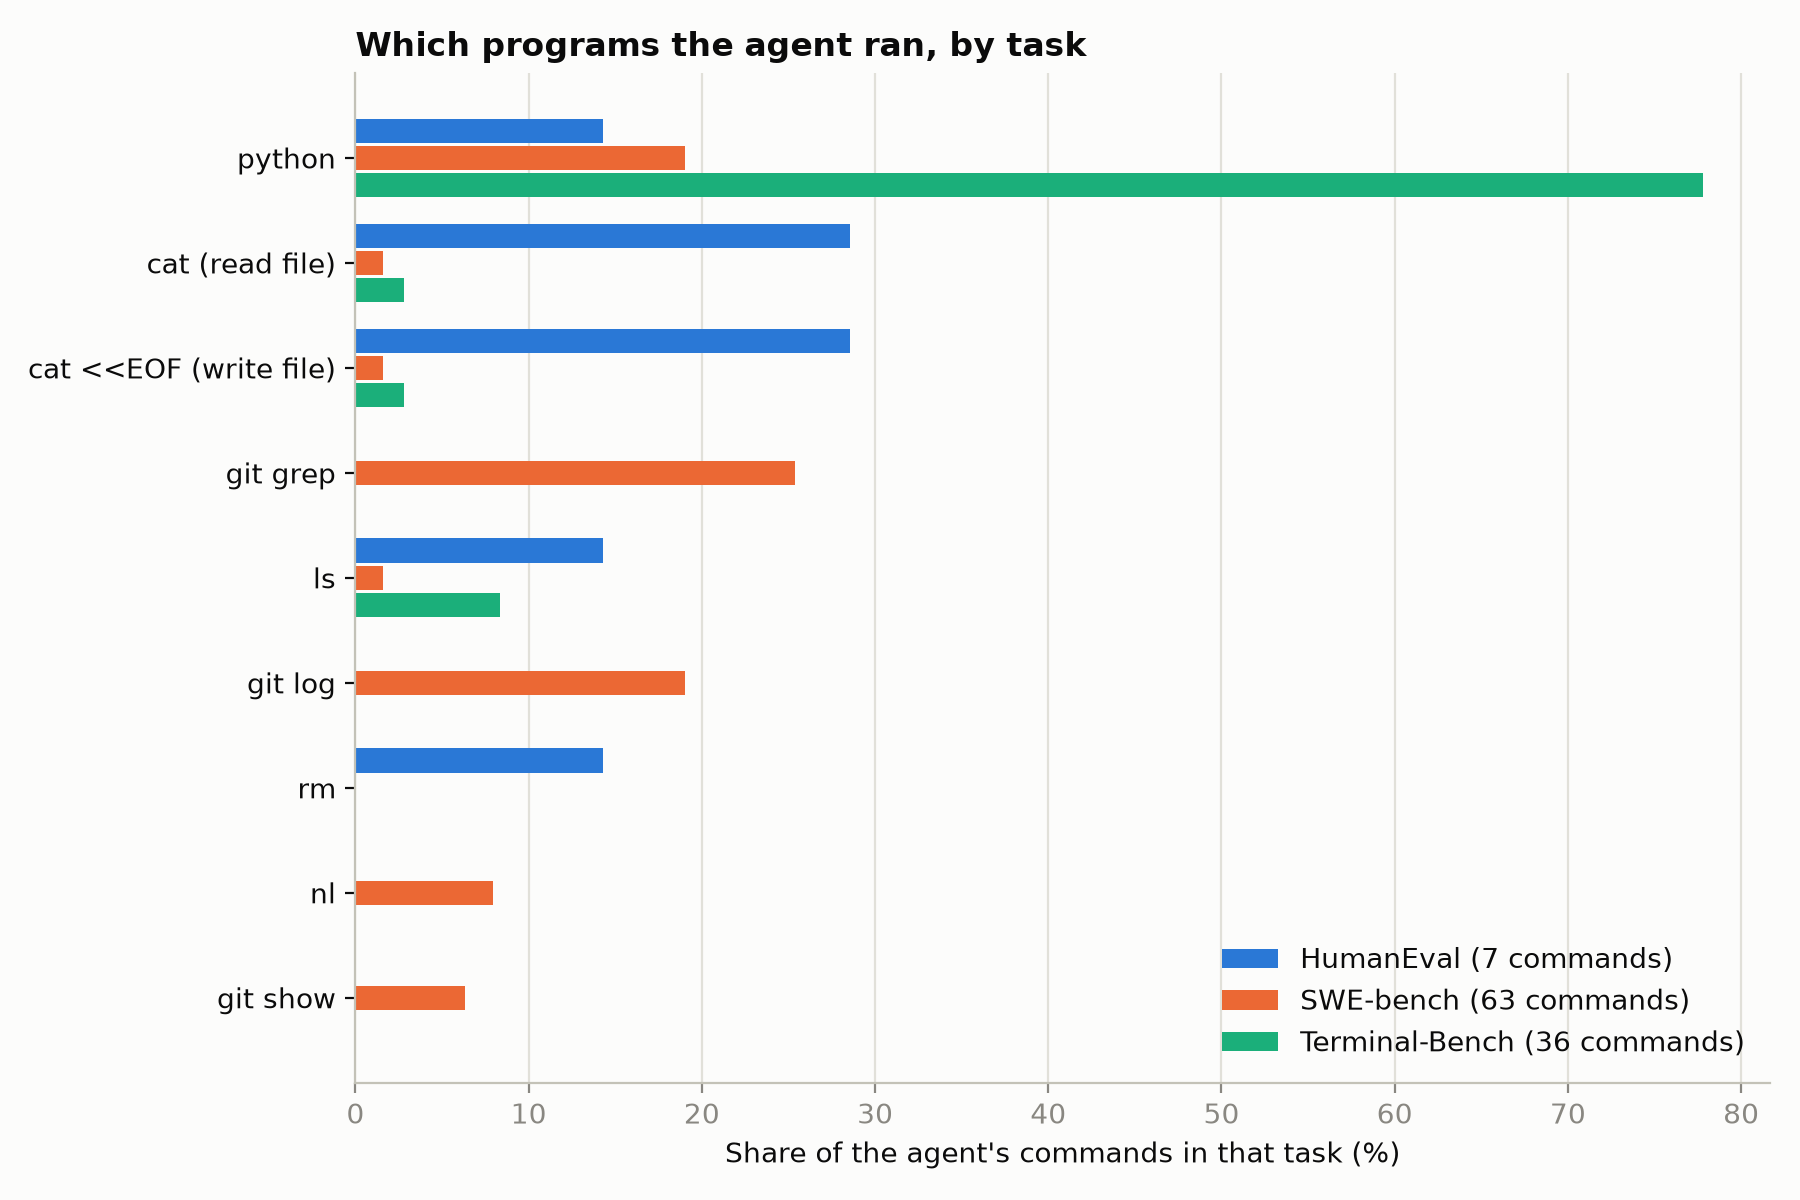
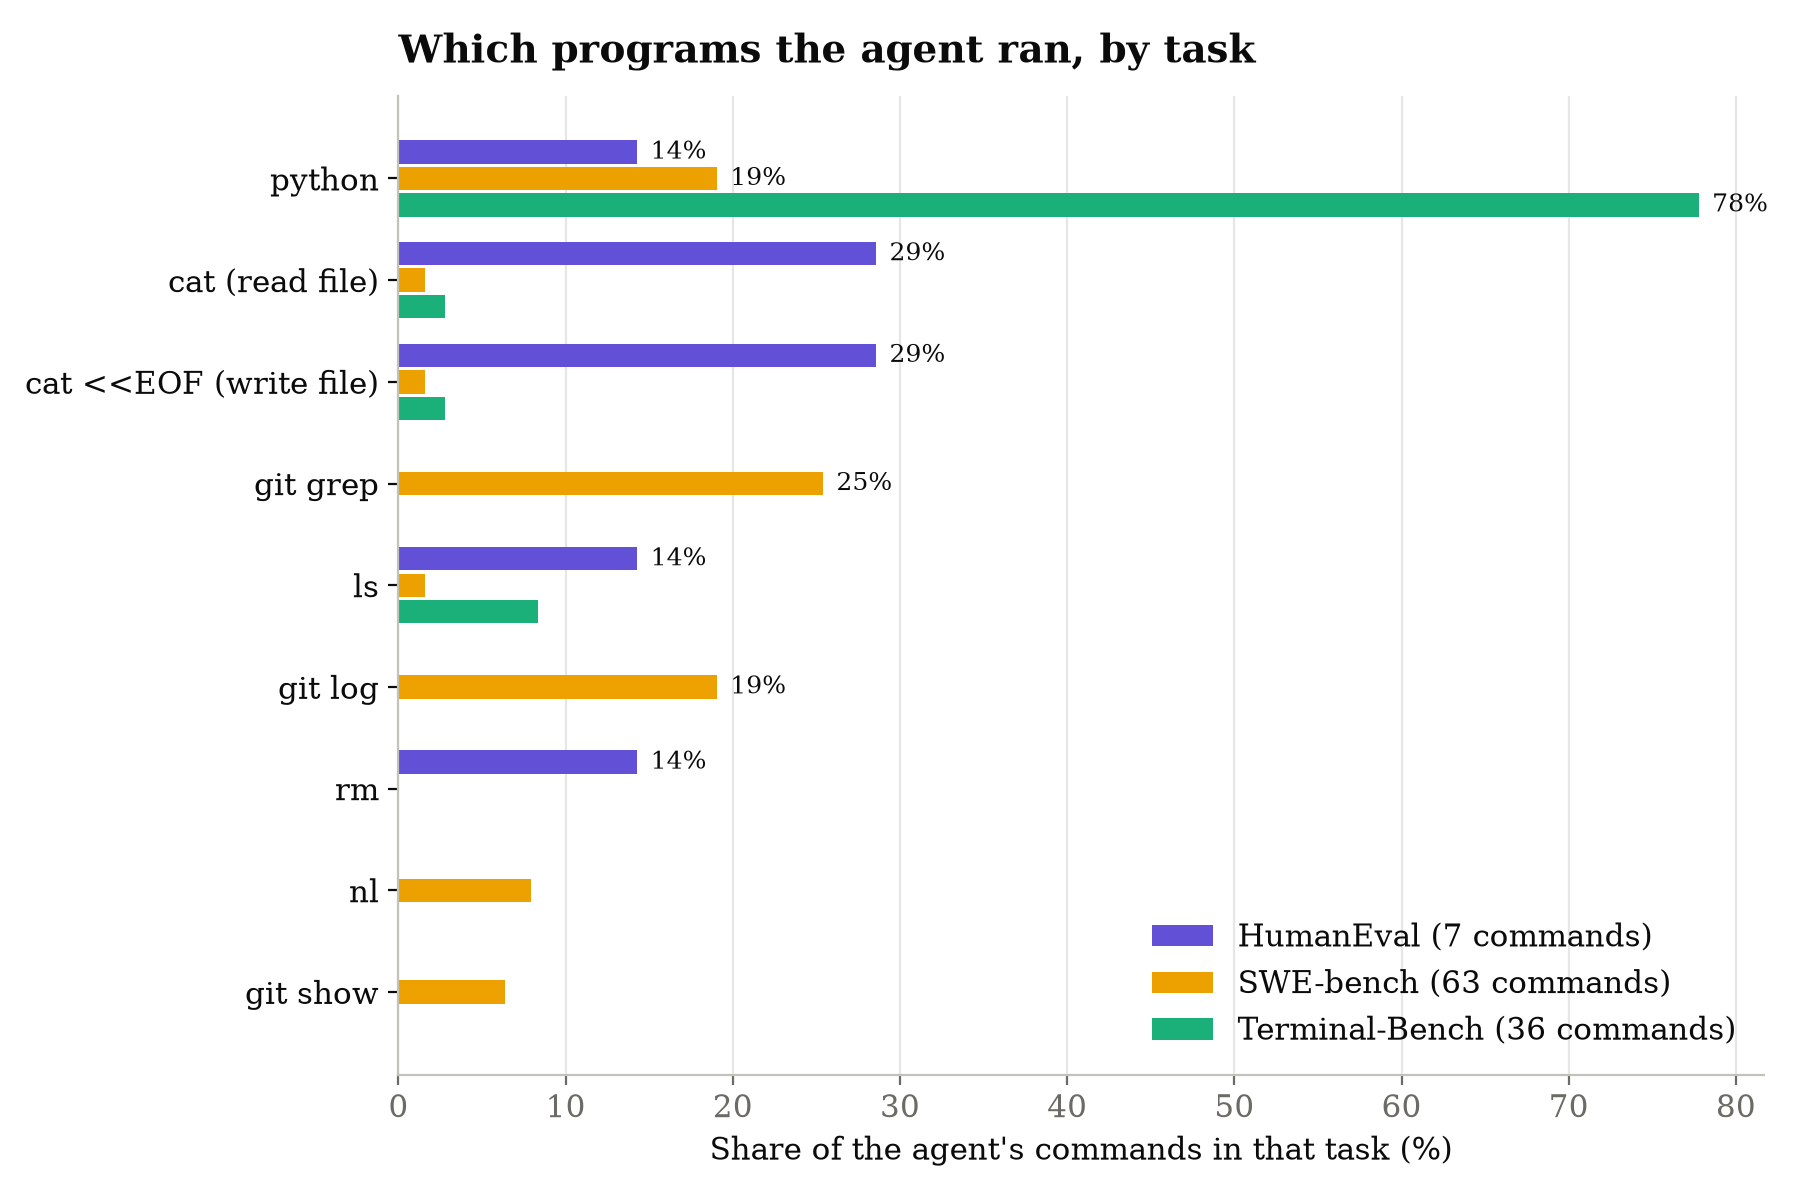
new plots

diff --git a/writeup/3_run_example_tasks/make_figures.py b/writeup/3_run_example_tasks/make_figures.py
@@ -1,3 +1,242 @@
+# """Problem 7: three figures from the saved HumanEval, SWE-bench and Terminal-Bench trajectories.
+
+# Run from the repository root:
+#     uv run --with matplotlib python writeup/3_run_example_tasks/make_figures.py
+# """
+# import glob
+# import json
+# import os
+# import re
+# from collections import Counter
+
+# import matplotlib
+# matplotlib.use("Agg")
+# import matplotlib.pyplot as plt
+# from matplotlib.patches import Patch
+
+# OUT = "writeup/3_run_example_tasks"
+# ART = os.path.join(OUT, "artifacts")
+# RUNS = [
+#     ("HumanEval", "humaneval-agent/humaneval-0__*"),
+#     ("SWE-bench", "swebench-django-11099/django__django-11099__*"),
+#     ("Terminal-Bench", "terminal-bench-model-extraction/model-extraction-relu-logits__*"),
+# ]
+# TASK_COLOR = {"HumanEval": "#2a78d6", "SWE-bench": "#eb6834", "Terminal-Bench": "#1baf7a"}
+# INK, MUTED, GRID, SURFACE = "#0b0b0b", "#898781", "#e1e0d9", "#fcfcfb"
+# SUBMIT = "COMPLETE_TASK_AND_SUBMIT_FINAL_OUTPUT"
+
+# plt.rcParams.update({
+#     "figure.facecolor": SURFACE, "axes.facecolor": SURFACE, "savefig.facecolor": SURFACE,
+#     "axes.edgecolor": "#c3c2b7", "axes.labelcolor": INK, "text.color": INK,
+#     "xtick.color": MUTED, "ytick.color": INK, "font.size": 10,
+#     "axes.spines.top": False, "axes.spines.right": False,
+# })
+
+
+# def load(pattern):
+#     """Return the agent's work steps as dicts: step id, command, return code."""
+#     path = glob.glob(os.path.join(ART, pattern, "agent", "trajectory.json"))[0]
+#     steps = []
+#     for s in json.load(open(path))["steps"]:
+#         if s.get("source") != "agent" or not s.get("tool_calls"):
+#             continue
+#         cmd = s["tool_calls"][0]["arguments"].get("command", "")
+#         if SUBMIT in cmd:
+#             continue  # the submit command is not work on the task
+#         content = (s.get("observation", {}).get("results") or [{}])[0].get("content", "")
+#         m = re.search(r'"returncode":\s*(-?\d+)', content)
+#         steps.append({"id": s["step_id"], "cmd": cmd, "rc": int(m.group(1)) if m else 0})
+#     return steps
+
+
+# def program(cmd):
+#     """Name of the program a command starts with (after any 'cd X &&' or VAR=value)."""
+#     first = cmd.strip().splitlines()[0] if cmd.strip() else ""
+#     m = re.match(r"\s*cd\s+\S+\s*&&\s*(.*)", first)
+#     if m:
+#         first = m.group(1)
+#     toks = first.split()
+#     while toks and re.match(r"^[A-Za-z_]\w*=", toks[0]):
+#         toks = toks[1:]
+#     if not toks:
+#         return "other"
+#     name = os.path.basename(toks[0])
+#     if name.startswith("python"):
+#         return "python"
+#     if name == "cat" and "<<" in first:
+#         return "cat <<EOF (write file)"
+#     if name == "cat":
+#         return "cat (read file)"
+#     if name == "git" and len(toks) > 1:
+#         return "git " + toks[1]
+#     return name
+
+
+# WRITE_PATTERNS = [
+#     r"(?:^|[^0-9&>])>{1,2}\s*([~./]?[A-Za-z_/][\w./-]*)",  # shell redirect to a file
+#     r"\bsed\s+-i\S*\s+.*?\s([\w./-]+\.\w+)\s*$",           # sed -i ... file
+#     r"open\(\s*['\"]([^'\"]+)['\"]\s*,\s*['\"][wa]",       # Python open(path, 'w')
+#     r"\btee\s+(?:-a\s+)?([\w./-]+)",                       # tee file
+# ]
+
+
+# FILE_EXT = r"\.(?:py|txt|npy|json|md|sh|cfg|toml|ya?ml|csv|log|html|rst|js|c|h)$"
+
+
+# def writes_solution_file(cmd):
+#     """True if the command writes a file outside /tmp and /dev, i.e. edits the deliverable."""
+#     for pat in WRITE_PATTERNS:
+#         for target in re.findall(pat, cmd, flags=re.MULTILINE):
+#             looks_like_file = target.startswith(("/", "./", "~/")) or re.search(FILE_EXT, target)
+#             if looks_like_file and not target.startswith(("/tmp", "/dev")):
+#                 return True
+#     return False
+
+
+# data = {name: load(pattern) for name, pattern in RUNS}
+# names = [n for n, _ in RUNS]
+
+# # ---------------------------------------------------------------- figure 1
+# counts = {n: Counter(program(s["cmd"]) for s in data[n]) for n in names}
+# share = {n: {p: 100 * c / len(data[n]) for p, c in counts[n].items()} for n in names}
+# total = Counter()
+# for n in names:
+#     for p, v in share[n].items():
+#         total[p] += v
+# top = [p for p, _ in total.most_common(9)]
+
+# fig, ax = plt.subplots(figsize=(9, 6))
+# h = 0.26
+# for i, n in enumerate(names):
+#     ys = [j + (i - 1) * h for j in range(len(top))]
+#     ax.barh(ys, [share[n].get(p, 0) for p in top], height=h - 0.03,
+#             color=TASK_COLOR[n], label=f"{n} ({len(data[n])} commands)")
+# ax.set_yticks(range(len(top)))
+# ax.set_yticklabels(top)
+# ax.invert_yaxis()
+# ax.set_xlabel("Share of the agent's commands in that task (%)")
+# ax.set_title("Which programs the agent ran, by task", loc="left", fontweight="bold")
+# ax.xaxis.grid(True, color=GRID, linewidth=0.8)
+# ax.set_axisbelow(True)
+# ax.legend(frameon=False, loc="lower right")
+# fig.tight_layout()
+# fig.savefig(os.path.join(OUT, "bash-command-usage.png"), dpi=200)
+# plt.close(fig)
+
+# print("=== bash-command-usage: commands per program (count, % of task) ===")
+# for p in top:
+#     print(f"{p:26s}" + "".join(f"{n}: {counts[n].get(p, 0):2d} ({share[n].get(p, 0):4.1f}%)   " for n in names))
+
+# # ---------------------------------------------------------------- figure 2
+# EXPLORE, IMPLEMENT = "#c3c2b7", "#6250d6"
+# fig, ax = plt.subplots(figsize=(9, 3.4))
+# print("\n=== exploration-to-implementation: first command that writes a file outside /tmp ===")
+# for row, n in enumerate(names):
+#     steps = data[n]
+#     idx = next((i for i, s in enumerate(steps) if writes_solution_file(s["cmd"])), len(steps))
+#     pct = 100 * idx / len(steps)
+#     ax.barh(row, pct, color=EXPLORE, height=0.5)
+#     ax.barh(row, 100 - pct, left=pct, color=IMPLEMENT, height=0.5)
+#     ax.plot([pct, pct], [row - 0.33, row + 0.33], color=INK, linewidth=2)
+#     if idx < len(steps):
+#         label = f"command {idx + 1} of {len(steps)} (step {steps[idx]['id']})"
+#         print(f"{n}: command {idx + 1} of {len(steps)} = step {steps[idx]['id']} = {pct:.0f}% of the way through")
+#         print("   ", steps[idx]["cmd"].strip().splitlines()[0][:110])
+#     else:
+#         label = "no solution file written"
+#         print(f"{n}: no write found")
+#     ha, dx = ("right", -1.5) if pct > 60 else ("left", 1.5)
+#     ax.text(pct + dx, row - 0.36, label, ha=ha, va="bottom", fontsize=9)
+# ax.set_yticks(range(len(names)))
+# ax.set_yticklabels(names)
+# ax.invert_yaxis()
+# ax.set_xlim(0, 100)
+# ax.set_xlabel("Progress through the agent's commands (%)")
+# ax.set_title("When the agent first edited the solution", loc="left", fontweight="bold")
+# ax.legend(handles=[Patch(color=EXPLORE, label="Exploring (before the first write outside /tmp)"),
+#                    Patch(color=IMPLEMENT, label="Implementing (from the first write onward)")],
+#           frameon=False, loc="upper center", bbox_to_anchor=(0.5, -0.32), ncol=2)
+# fig.tight_layout()
+# fig.savefig(os.path.join(OUT, "exploration-to-implementation.png"), dpi=200)
+# plt.close(fig)
+
+# # ---------------------------------------------------------------- figure 3
+# # Each command is counted once, under the first activity below that it matches.
+# TEST_RUN = r"(?:^|[\s;&|])(?:pytest|\S*runtests\.py)\b|-m\s+(?:doctest|unittest|pytest)\b|python\S*\s+\S*test\S*\.py"
+# READ_PROGRAMS = {"cat", "ls", "nl", "sed", "head", "tail", "find", "grep", "wc", "less", "file", "tree"}
+# ENV_PROGRAMS = {"which", "pip", "pip3", "conda", "uname", "env", "whoami", "pwd", "uv"}
+
+
+# def writes_any_file(cmd):
+#     return writes_solution_file(cmd.replace("/tmp/", "/scratch/"))
+
+
+# def activity(cmd):
+#     prog = os.path.basename((program(cmd).split() or ["other"])[0])
+#     if writes_any_file(cmd):
+#         return "Edit or create files"
+#     if re.search(TEST_RUN, cmd, flags=re.MULTILINE):
+#         return "Run tests"
+#     if re.search(r"(?:^|[\s;&|/])python[\d.]*\s", cmd, flags=re.MULTILINE):
+#         return "Run own scripts and experiments"
+#     if re.search(r"(?:^|[\s;&|])git\s+(?:log|show|status|diff|branch|blame)\b", cmd, flags=re.MULTILINE):
+#         return "Inspect git history and state"
+#     if prog in READ_PROGRAMS or program(cmd) == "git grep":
+#         return "Inspect and search files"
+#     if prog in ENV_PROGRAMS:
+#         return "Check the environment"
+#     return "Other"
+
+
+# ACTIVITIES = [
+#     ("Inspect and search files", "#2a78d6"),
+#     ("Inspect git history and state", "#eb6834"),
+#     ("Check the environment", "#1baf7a"),
+#     ("Edit or create files", "#eda100"),
+#     ("Run tests", "#e87ba4"),
+#     ("Run own scripts and experiments", "#6250d6"),
+#     ("Other", "#c3c2b7"),
+# ]
+# SHORT = {"Inspect and search files": "files", "Inspect git history and state": "git",
+#          "Check the environment": "env", "Edit or create files": "edit", "Run tests": "tests",
+#          "Run own scripts and experiments": "scripts", "Other": "other"}
+# acts = {n: Counter(activity(s["cmd"]) for s in data[n]) for n in names}
+
+# fig, ax = plt.subplots(figsize=(10, 4.2))
+# for row, n in enumerate(names):
+#     left = 0.0
+#     for label, color in ACTIVITIES:
+#         c = acts[n].get(label, 0)
+#         pct = 100 * c / len(data[n])
+#         if c == 0:
+#             continue
+#         ax.barh(row, pct, left=left, height=0.55, color=color, edgecolor=SURFACE, linewidth=2)
+#         if pct >= 6:
+#             dark_text = color in ("#eda100", "#c3c2b7")
+#             ax.text(left + pct / 2, row, str(c), ha="center", va="center", fontsize=9,
+#                     color=INK if dark_text else "#ffffff", fontweight="bold")
+#         left += pct
+# ax.set_yticks(range(len(names)))
+# ax.set_yticklabels([f"{n}\n({len(data[n])} commands)" for n in names])
+# ax.invert_yaxis()
+# ax.set_xlim(0, 100)
+# ax.set_xlabel("Share of the agent's commands in that task (%); numbers in bars are command counts")
+# ax.set_title("How the agent spent its commands, by activity", loc="left", fontweight="bold")
+# ax.legend(handles=[Patch(color=c, label=l) for l, c in ACTIVITIES], frameon=False,
+#           loc="upper center", bbox_to_anchor=(0.5, -0.22), ncol=3)
+# fig.tight_layout()
+# fig.savefig(os.path.join(OUT, "effort-distribution.png"), dpi=200)
+# plt.close(fig)
+
+# print("\n=== effort-distribution: commands per activity (count, % of task) ===")
+# for label, _ in ACTIVITIES:
+#     print(f"{label:34s}" + "".join(f"{n}: {acts[n].get(label, 0):2d} ({100 * acts[n].get(label, 0) / len(data[n]):4.1f}%)   " for n in names))
+# for n in names:
+#     print(f"\n{n}: activity of each command, in order")
+#     print("   " + " | ".join(f"{s['id']}:{SHORT[activity(s['cmd'])]}" for s in data[n]))
+
+# print("\nSaved bash-command-usage.png, effort-distribution.png, exploration-to-implementation.png in", OUT)
+
 """Problem 7: three figures from the saved HumanEval, SWE-bench and Terminal-Bench trajectories.
 
 Run from the repository root:
@@ -21,14 +260,15 @@ RUNS = [
     ("SWE-bench", "swebench-django-11099/django__django-11099__*"),
     ("Terminal-Bench", "terminal-bench-model-extraction/model-extraction-relu-logits__*"),
 ]
-TASK_COLOR = {"HumanEval": "#2a78d6", "SWE-bench": "#eb6834", "Terminal-Bench": "#1baf7a"}
-INK, MUTED, GRID, SURFACE = "#0b0b0b", "#898781", "#e1e0d9", "#fcfcfb"
+TASK_COLOR = {"HumanEval": "#6250d6", "SWE-bench": "#eda100", "Terminal-Bench": "#1baf7a"}
+INK, MUTED, GRID, SURFACE = "#0b0b0b", "#6b6a65", "#e6e6e6", "#ffffff"
 SUBMIT = "COMPLETE_TASK_AND_SUBMIT_FINAL_OUTPUT"
 
 plt.rcParams.update({
     "figure.facecolor": SURFACE, "axes.facecolor": SURFACE, "savefig.facecolor": SURFACE,
     "axes.edgecolor": "#c3c2b7", "axes.labelcolor": INK, "text.color": INK,
-    "xtick.color": MUTED, "ytick.color": INK, "font.size": 10,
+    "xtick.color": MUTED, "ytick.color": INK, "font.size": 11, "font.family": "serif",
+    "axes.titlesize": 14, "axes.titlepad": 12,
     "axes.spines.top": False, "axes.spines.right": False,
 })
 
@@ -109,8 +349,11 @@ fig, ax = plt.subplots(figsize=(9, 6))
 h = 0.26
 for i, n in enumerate(names):
     ys = [j + (i - 1) * h for j in range(len(top))]
-    ax.barh(ys, [share[n].get(p, 0) for p in top], height=h - 0.03,
-            color=TASK_COLOR[n], label=f"{n} ({len(data[n])} commands)")
+    vals = [share[n].get(p, 0) for p in top]
+    ax.barh(ys, vals, height=h - 0.03, color=TASK_COLOR[n], label=f"{n} ({len(data[n])} commands)")
+    for y, v in zip(ys, vals):
+        if v >= 10:  # label only the larger bars so the chart stays readable
+            ax.text(v + 0.8, y, f"{v:.0f}%", va="center", fontsize=9, color=INK)
 ax.set_yticks(range(len(top)))
 ax.set_yticklabels(top)
 ax.invert_yaxis()
@@ -128,7 +371,7 @@ for p in top:
     print(f"{p:26s}" + "".join(f"{n}: {counts[n].get(p, 0):2d} ({share[n].get(p, 0):4.1f}%)   " for n in names))
 
 # ---------------------------------------------------------------- figure 2
-EXPLORE, IMPLEMENT = "#c3c2b7", "#6250d6"
+EXPLORE, IMPLEMENT = "#d9d8d2", "#2a78d6"
 fig, ax = plt.subplots(figsize=(9, 3.4))
 print("\n=== exploration-to-implementation: first command that writes a file outside /tmp ===")
 for row, n in enumerate(names):

diff --git a/writeup/3_run_example_tasks/responses.md b/writeup/3_run_example_tasks/responses.md
@@ -15,18 +15,18 @@
 
 3. Trace the verification process after the agent finishes: which file does Harbor execute, where do the private tests come from, and how is the final reward communicated back to Harbor?
 
-   Harbor executes `tests/test.sh`. The private tests come from the task's `tests/` folder, which Harbor copies into the container only after the agent finishes. The final reward is communicated by `test.sh` writing it to a reward file, which Harbor reads; in my run, `verifier/reward.txt` contained `1`.
+   Harbor executes `tests/test.sh`. The private tests come from the task's `tests/` folder, which Harbor copies into the container only after the agent finishes. The final reward is communicated by `test.sh` writing it to a reward file, which Harbor reads. In my run, `verifier/reward.txt` contained `1`.
 
 **Problem 4 (`run-example-agent`)**
 
 1. Summarize the agent's approach. Which files and commands did it use?
 
-   The agent read the starter file with `cat /app/humaneval_0.py` (step 3) and listed the folder with `ls -la /app` (step 4). It wrote its own test script at `/tmp/test_has_close_elements.py` (step 5). It then overwrote `/app/humaneval_0.py` with a solution that sorts the list and compares each pair of neighbors (step 6). It checked the solution with `python3 -m doctest` and its test script (step 7), then submitted with `echo COMPLETE_TASK_AND_SUBMIT_FINAL_OUTPUT` (step 10).
+   The agent read the starter file with `cat /app/humaneval_0.py` and listed the folder with `ls -la /app`. It wrote its own test script at `/tmp/test_has_close_elements.py`. It then overwrote `/app/humaneval_0.py` with a solution that sorts the list and compares each pair of neighbors. It checked the solution with `python3 -m doctest` and its test script, then submitted with `echo COMPLETE_TASK_AND_SUBMIT_FINAL_OUTPUT`.
 
 
 2. Identify one decision in the trajectory that helped or hurt the final result. Cite the relevant step.
 
-   In step 5 the agent decided to write its own tests, including edge cases like an empty list, a single number, and two equal numbers with threshold 0. This helped because in step 7 it could confirm that its solution passed all of them and both docstring examples before submitting.
+   In step 5, the agent decided to write its own tests, including edge cases like an empty list, a single number, and two equal numbers with threshold 0. This helped because in step 7 it could confirm that its solution passed all of them and both docstring examples before submitting.
 
 
 3. Did the verifier reward accurately reflect the quality of the agent's solution? Why or why not?
@@ -39,7 +39,7 @@
 
 1. Summarize the agent's approach. How did it locate the relevant code, and what change did it make?
 
-   The agent located the code with `find . -name "validators.py" | grep auth` (step 3) and read `django/contrib/auth/validators.py` (step 4). It changed the regex in both `ASCIIUsernameValidator` and `UnicodeUsernameValidator` from `r'^[\w.@+-]+$'` to `r'\A[\w.@+-]+\Z'` (step 56). It then ran the auth tests to confirm the fix (steps 60 and 61).
+   The agent located the code with `find . -name "validators.py" | grep auth` in step 3 and read `django/contrib/auth/validators.py` in step 4. It changed the regex in both `ASCIIUsernameValidator` and `UnicodeUsernameValidator` from `r'^[\w.@+-]+$'` to `r'\A[\w.@+-]+\Z'` in step 56. It then ran the auth tests to confirm the fix in steps 60 and 61.
 
 
 2. Identify one point where the agent used repository context that would not exist in a self-contained HumanEval task.
@@ -72,7 +72,7 @@
 
 4. How did the open-ended terminal environment affect the agent's ability to plan, test its assumptions, and recover from mistakes?
 
-   The terminal let the agent test each assumption with a short script before building on it, such as the kink formula in step 13. It also let it recover from mistakes: when `scipy` was missing in step 17, it switched to numpy in step 18. But the terminal did not show what the hidden test would use, so the agent's own checks passed and it still failed.
+   The terminal let the agent plan from what it observed -- it measured that forward() answers about 200,000 queries per second in step 12 before settling on a query-heavy method. It also let it recover from mistakes: when `scipy` was missing in step 17, it switched to numpy in step 18. But the terminal did not show what the hidden test would use, so the agent's own checks passed and it still failed.
 
 ## 3.4 Analyzing Agent Trajectories
 
@@ -86,7 +86,7 @@ How did the agent distribute its effort across activities such as inspecting fil
 
 ![](effort-distribution.png)
 
-This figure measures how the agent split its effort across activities. Each command was assigned to one activity by rule (inspecting files, inspecting git, checking the environment, editing files, running tests, or running its own scripts), and I plotted each activity's share of the task's commands. On SWE-bench, 75% of commands were inspection (47 of 63) and only 2 edited files, so the work was finding and understanding code rather than writing it. On Terminal-Bench, 78% of commands were the agent's own experiments and none ran a test suite, because the task gave it no tests to run.
+This figure measures how the agent split its effort across activities. Each command was assigned to one activity by rule (inspecting files, inspecting git, checking the environment, editing files, running tests, or running its own scripts), and I plotted each activity's share of the task's commands. On SWE-bench, 75% of commands were inspection (47 of 63) and only 2 edited files, so the work was finding and understanding code rather than writing it. On Terminal-Bench, 78% of commands were the agent's own experiments and none ran a test suite, because the task gave it no tests to run. 
 
 ### `bash-command-usage.png`
 
